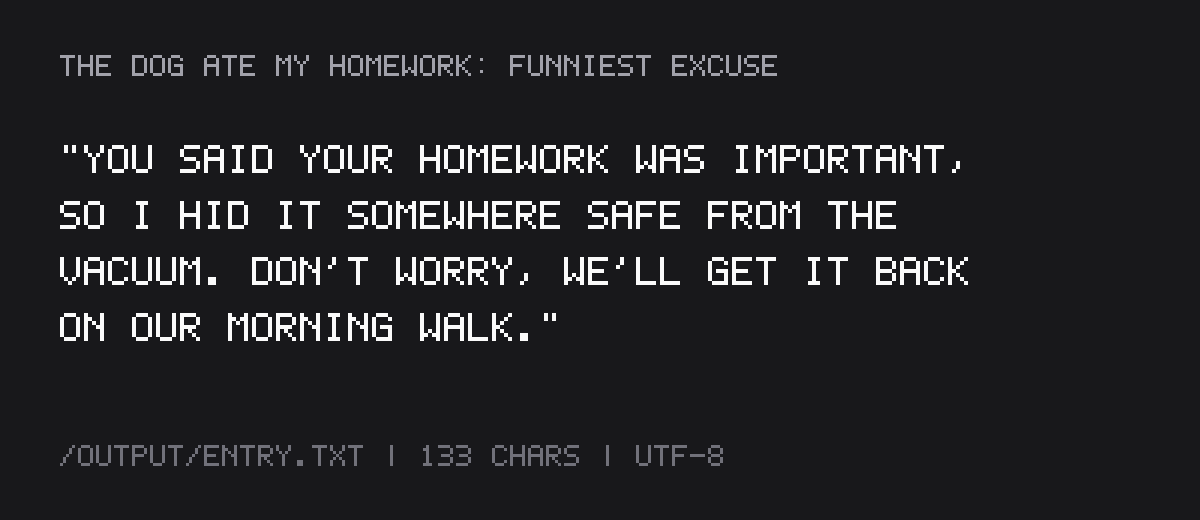
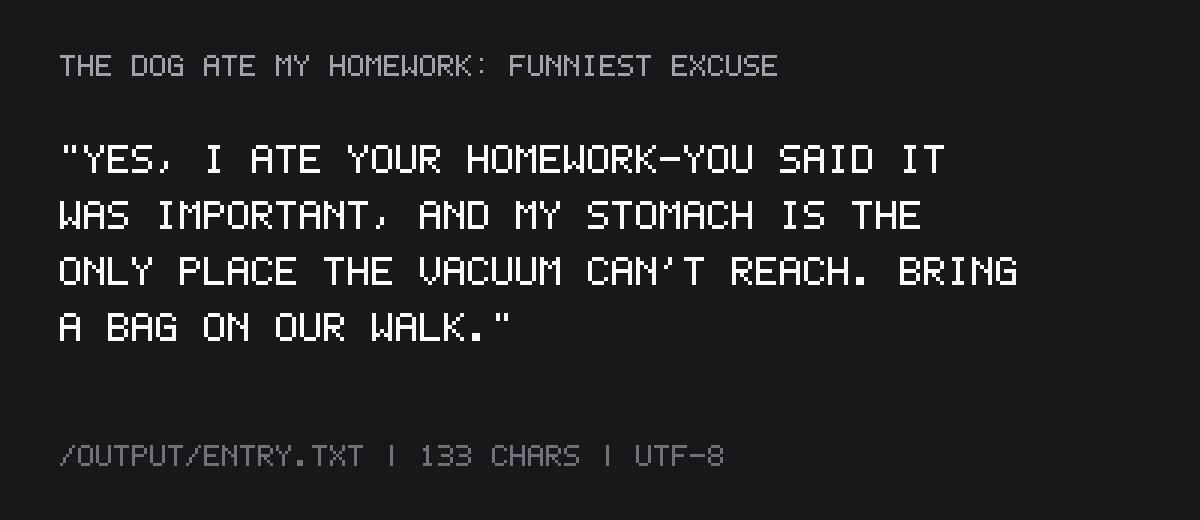
Sharpen dog voice, admit eating homework, punch up walk bag closer

diff --git a/main.ts b/main.ts
@@ -3,7 +3,7 @@ import { dirname } from "node:path";
 
 const ENTRY_PATH = "/output/entry.txt";
 const EXCUSE =
-  "You said your homework was important, so I hid it somewhere safe from the vacuum. Don't worry, we'll get it back on our morning walk.";
+  "Yes, I ate your homework—you said it was important, and my stomach is the only place the vacuum can't reach. Bring a bag on our walk.";
 
 mkdirSync(dirname(ENTRY_PATH), { recursive: true });
 writeFileSync(ENTRY_PATH, EXCUSE, "utf8");
